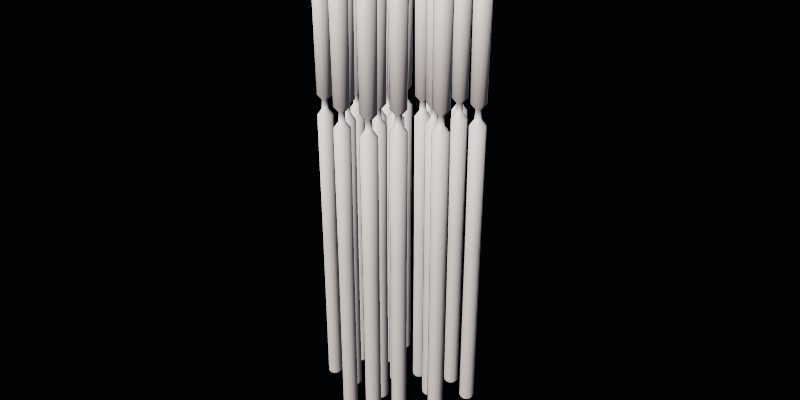
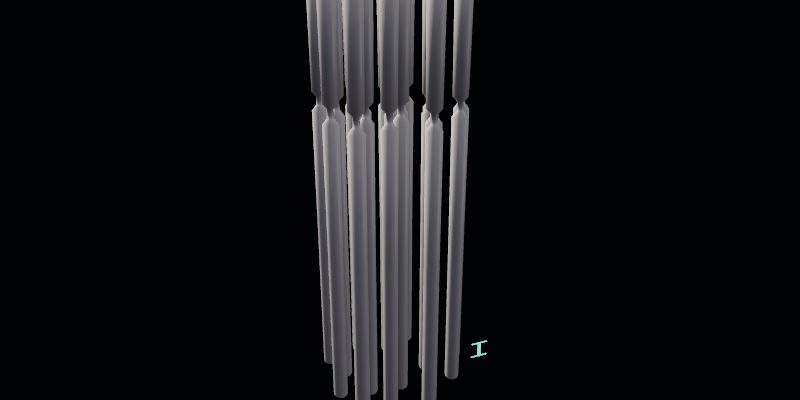
INNER RESTORE: stage 3 lungs published; atlas images, progress, docs
Claude-Session: https://claude.ai/code/session_01HXHWafmf3x2WudFyo1Jiet

Changed region(s): [[0.375, 0.0, 0.625, 1.0]]

diff --git a/inner-restore/Docs/HANDOFF.md b/inner-restore/Docs/HANDOFF.md
@@ -147,3 +147,9 @@
 - 持ち主「ギザギザ感が多い」→ 走査電顕の写真と見比べ：線毛を丸い管（`common.ts` の ciliaField、断面5角・法線つき）、ほこりを丸い粒、好中球をひだ＋偽足の平たい細胞（細い突起は取りやめ）、粘液を濡れたつやの面（うねり）に。
 - 先生と話すボタン（voice-buddy）は外した。ナレーションは AI の声：`node scripts/record-voices.mjs`（voice-buddy の /api/realtime-token で短命の鍵 → OpenAI のリアルタイム音声に一字一句読ませる → 書き起こしで照合 → `public/static/voice/<声>/<識別子>.m4a`、`manifest.json`）。台本は `?narration`（`src/core/narration.ts`）。言葉を変えたら再実行（変わった行だけ録る）。1回の実行で鍵を4〜8回使う（1日100回まで）。
 - 再生：`src/core/voice.ts`（`ai:<声>` を選ぶと録った音、なければ端末の声）。速さは再生速度（音の高さは保つ）。
+
+## 2026-11-25 ステージ3「肺」
+- 区域：細気管支 `bronchiole`（`nose/airway.ts` の variant 'L'：クラブ細胞・呼吸の流れ）、肺胞の中 `alveolus`／肺胞の壁 `alvwall`（`lung/alveolus.ts`）。模型 `tools/blender/make_lung.py`、音 `make_audio.py`（8秒周期の息）。
+- 呼吸：8秒で1回（吸う40%・吐く60%）。`drift` で流れ、`beat` で照準の輪（吐く息で脈打つ）、吐く息で治りやすい。区域Bは壁が伸び縮み（約5%）。患者の変化 `patient: 'breath'`（呼吸の波形）。
+- 台帳：肺の8項目（事実確認済み）。GDD 6-3。
+- 次のステージ：腸（持ち主の確認後）。
